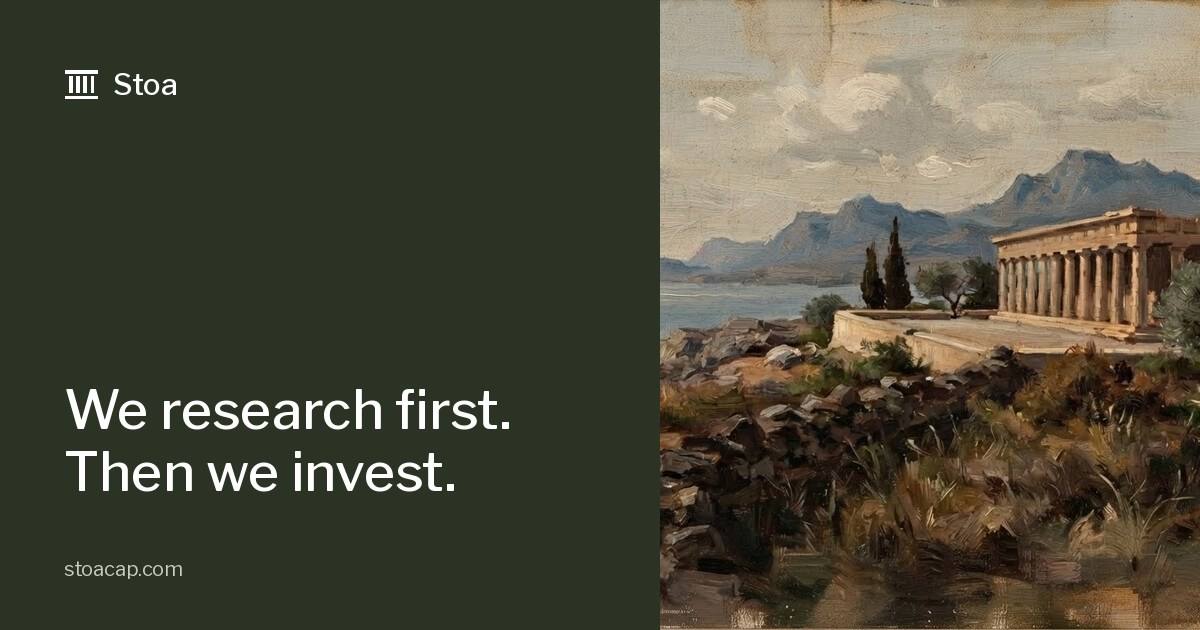
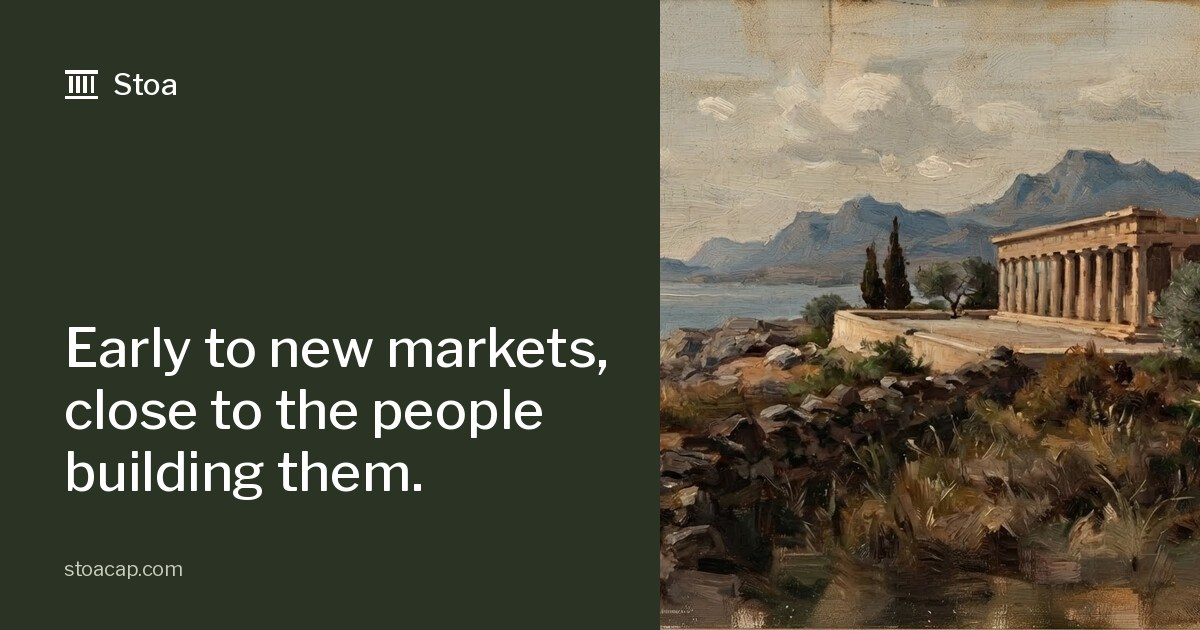
/version2: apply Stoa copy sheet
Hero, How Stoa works, notes and investments headings, research and investments standfirsts, mid-note gate, request-access promise and confirmation, footer, meta description and share card, all from Mattia's copy sheet (28 Nov 2026).

Changed region(s): [[0.0308, 0.5127, 0.5242, 0.8143]]

diff --git a/src/version2/Home/index.tsx b/src/version2/Home/index.tsx
@@ -17,18 +17,18 @@ type Props = Partial<typeof args> & {
 const steps = [
   {
     n: '01',
-    title: 'We call the people who know',
-    body: 'Underwriters, engineers, bankers, regulators and operators. The people who see a market from the inside, before it shows up in the numbers.',
+    title: 'We start with the founders',
+    body: 'Then the engineers, operators and regulators around them. People who can explain a market from the inside, long before the coverage catches up.',
   },
   {
     n: '02',
-    title: 'We write down what we learn',
-    body: 'Short, plain notes on where capital is moving and why. The opening of every note is free to read. Members read the rest.',
+    title: 'We write up the whole market',
+    body: 'What the category is, who is in it, and what would have to be true for it to be big. We keep it short and we show the numbers.',
   },
   {
     n: '03',
-    title: 'We invest where it points',
-    body: 'When the research is strong enough, we invest. Members hear about those allocations first.',
+    title: 'We invest',
+    body: "Every investment we make comes out of this research. We put money into nothing we haven't studied ourselves.",
   },
 ]
 
@@ -44,12 +44,12 @@ export default function Home(props: Props) {
         {/* The promise, the painting, and the one action */}
         <section className="grid grid-cols-1 gap-8 px-5 pt-4 md:px-10 md:pt-8 lg:grid-cols-[minmax(0,6fr)_minmax(0,6fr)] lg:items-center lg:gap-16">
           <div className="order-2 lg:order-1">
-            <p className="text-[14px] font-medium uppercase tracking-[0.12em] text-olive">Research and investments</p>
+            <p className="text-[14px] font-medium uppercase tracking-[0.12em] text-olive">Research on new markets</p>
             <h1 className="mt-5 text-[42px] font-medium leading-[1.02] tracking-[-0.04em] md:text-[64px]">
-              We research first. Then we invest.
+              Early to new markets, close to the people building them.
             </h1>
             <p className="mt-6 max-w-[500px] text-[18px] leading-[1.55] text-ink/75 md:text-[19px]">
-              Stoa publishes clear research on where capital is moving, drawn from the people who underwrite, build, regulate and run each market. When the research is strong enough, we put our own capital behind it.
+              Stoa picks a market that's still forming and talks to the people in it: founders first, then the engineers, operators and regulators around them. Reporting is always a step behind the people doing the work, so we go to them first.
             </p>
             {!signedIn && (
               <div className="mt-10 max-w-[500px]">
@@ -81,12 +81,12 @@ export default function Home(props: Props) {
         {/* The latest research */}
         <section className="px-5 pt-20 md:px-10 md:pt-28">
           <div className="flex items-end justify-between gap-6">
-            <h2 className="text-[32px] font-medium leading-none tracking-[-0.03em] md:text-[44px]">Latest research</h2>
+            <h2 className="text-[32px] font-medium leading-none tracking-[-0.03em] md:text-[44px]">Latest notes</h2>
             <button
               onClick={() => onNavigate?.('research')}
               className="shrink-0 text-[15px] underline decoration-1 underline-offset-4 transition-opacity duration-150 hover:opacity-70"
             >
-              All research
+              All notes
             </button>
           </div>
           <ul className="mt-10 grid grid-cols-1 gap-x-10 gap-y-14 md:mt-12 md:grid-cols-3">
@@ -113,7 +113,7 @@ export default function Home(props: Props) {
             <div>
               <h2 className="text-[32px] font-medium leading-none tracking-[-0.03em] md:text-[44px]">Investments</h2>
               <p className="mt-5 max-w-[440px] text-[18px] leading-[1.55] text-ink/75">
-                We invest in the companies our research keeps pointing to. These are some of them.
+                Every investment we make comes out of this research. These are the ones so far.
               </p>
               <button
                 onClick={() => onNavigate?.('investments')}
@@ -145,9 +145,9 @@ export default function Home(props: Props) {
           <section className="px-5 pt-20 md:px-10 md:pt-28">
             <div className="grid grid-cols-1 gap-8 bg-stone px-5 py-10 md:px-12 md:py-14 lg:grid-cols-[minmax(0,6fr)_minmax(0,6fr)] lg:items-center lg:gap-16">
               <div>
-                <h2 className="text-[30px] font-medium leading-[1.1] tracking-[-0.03em] md:text-[40px]">Read every note in full.</h2>
+                <h2 className="text-[30px] font-medium leading-[1.1] tracking-[-0.03em] md:text-[40px]">Every note in full, the morning it’s written.</h2>
                 <p className="mt-4 max-w-[460px] text-[17px] leading-[1.55] text-ink/75">
-                  Members get the full research by email and first look at our investments.
+                  It’s free and we won’t sell you anything.
                 </p>
               </div>
               <Intake sent={intake === 'sent'} onRequestAccess={onRequestAccess} idSuffix="footer" />

diff --git a/version2.html b/version2.html
@@ -4,15 +4,15 @@
     <meta charset="UTF-8" />
     <meta name="viewport" content="width=device-width, initial-scale=1.0" />
     <meta name="robots" content="noindex" />
-    <meta name="description" content="Stoa publishes clear research on where capital is moving, then invests behind it." />
+    <meta name="description" content="Stoa researches markets while they’re still forming, from conversations with the founders and operators inside them." />
     <meta property="og:type" content="website" />
     <meta property="og:url" content="https://www.stoacap.com/version2" />
     <meta property="og:title" content="Stoa" />
-    <meta property="og:description" content="We research first. Then we invest." />
+    <meta property="og:description" content="Early to new markets, close to the people building them." />
     <meta property="og:image" content="https://www.stoacap.com/v2/og-image.jpg" />
     <meta name="twitter:card" content="summary_large_image" />
     <meta name="twitter:title" content="Stoa" />
-    <meta name="twitter:description" content="We research first. Then we invest." />
+    <meta name="twitter:description" content="Early to new markets, close to the people building them." />
     <meta name="twitter:image" content="https://www.stoacap.com/v2/og-image.jpg" />
     <meta property="og:image:width" content="1200" />
     <meta property="og:image:height" content="630" />

diff --git a/src/version2/shared/components/stoa/Intake.tsx b/src/version2/shared/components/stoa/Intake.tsx
@@ -10,7 +10,7 @@ type Props = {
 }
 
 /** The one action on Stoa: an email, a button, and a line on what members get. */
-export function Intake({ sent: sentProp = false, promise = 'Membership is free. We review every request by hand, so everyone inside has been vetted.', onRequestAccess, idSuffix }: Props) {
+export function Intake({ sent: sentProp = false, promise = 'Free. We read every request ourselves, so we know who’s reading. We answer within two business days.', onRequestAccess, idSuffix }: Props) {
   const [email, setEmail] = useState('')
   const fieldId = idSuffix ? `intake-email-${idSuffix}` : 'intake-email'
   const [sent, setSent] = useState(sentProp)
@@ -19,9 +19,9 @@ export function Intake({ sent: sentProp = false, promise = 'Membership is free. 
   if (sent) {
     return (
       <div className="bg-olive px-5 py-5 text-paper">
-        <p className="text-[18px] font-medium">Request received.</p>
+        <p className="text-[18px] font-medium">Got it.</p>
         <p className="mt-1 text-[15px] leading-[1.5] text-olive-soft">
-          We read every request ourselves. We’ll write to {email || 'you'} within a week.
+          We read every request ourselves, and we’ll write to {email || 'you'} within two business days.
         </p>
       </div>
     )

diff --git a/src/version2/Positions/index.tsx b/src/version2/Positions/index.tsx
@@ -21,7 +21,7 @@ export default function Investments(props: Props) {
       <main className="mx-auto max-w-[1360px] px-5 md:px-10">
         <IndexTitle>Investments</IndexTitle>
         <p className="mt-5 max-w-[560px] text-[18px] leading-[1.5] text-ink/75">
-          Companies we have invested in, each after doing the research first. Where we published a note before investing, it is linked beside the company.
+          Companies we invested in after researching the market around them. Where we published a note first, it’s linked. Where we didn’t, we say so.
         </p>
 
         {/* Each row reads left to right: the company, why we invested, and the note that came before */}

diff --git a/src/version2/Research/index.tsx b/src/version2/Research/index.tsx
@@ -25,7 +25,7 @@ export default function Research(props: Props) {
       <main className="mx-auto max-w-[1360px] px-5 md:px-10">
         <IndexTitle>Research</IndexTitle>
         <p className="mt-5 max-w-[560px] text-[18px] leading-[1.5] text-ink/75">
-          Notes on where capital is moving, from the people who see each market from the inside. The opening of every note is free.
+          Notes on markets that are still forming, written after talking to the people building in them. The opening of every note is open to everyone.
         </p>
 
         {/* The latest note leads: its chart, its title, and the voice behind it */}

diff --git a/src/version2/Note/index.tsx b/src/version2/Note/index.tsx
@@ -79,7 +79,7 @@ export default function Note(props: Props) {
             ) : (
               <section className="mt-10 bg-stone px-5 py-8 md:px-8">
                 <p className="mb-6 text-[22px] font-medium leading-[1.25] tracking-[-0.015em]">
-                  {body ? 'The rest is for members. Joining is free.' : 'This note is for members. Joining is free.'}
+                  {body ? 'The rest of this note goes out by email. It’s free.' : 'This note goes out by email. It’s free.'}
                 </p>
                 <Intake sent={intake === 'sent'} onRequestAccess={onRequestAccess} />
               </section>

diff --git a/src/version2/shared/components/stoa/Colophon.tsx b/src/version2/shared/components/stoa/Colophon.tsx
@@ -25,7 +25,7 @@ export function Colophon() {
             <a href="/privacy" className="transition-opacity duration-150 hover:opacity-70">Privacy</a>
           </nav>
           <p className="max-w-[560px]">
-            Stoa is free to read and free to join, and every member is approved by hand. Nothing here is investment advice. Allocations are offered to members only.
+            Stoa is free to read and free to join. We read every request ourselves. Nothing here is investment advice.
           </p>
           <p>© {new Date().getFullYear()} Stoa</p>
         </div>
